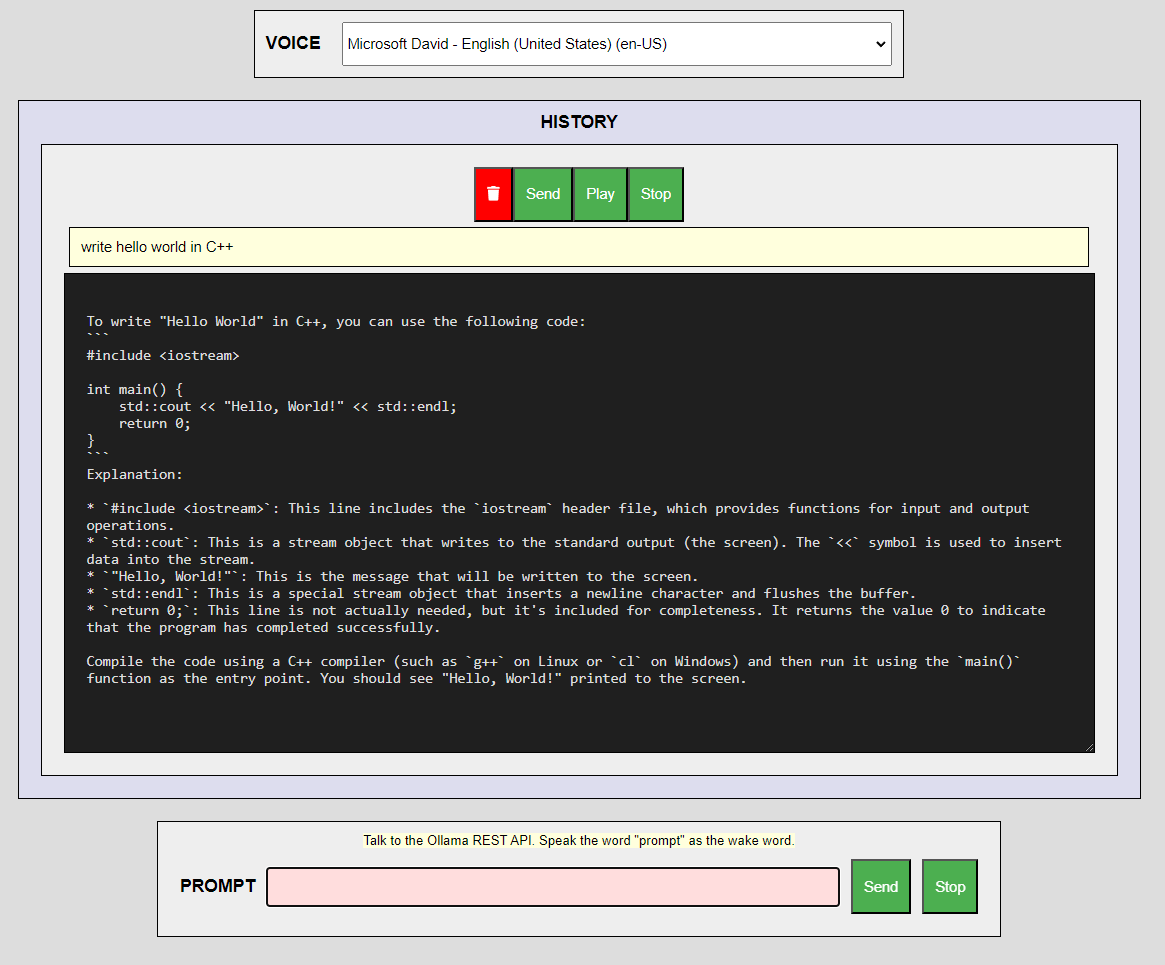
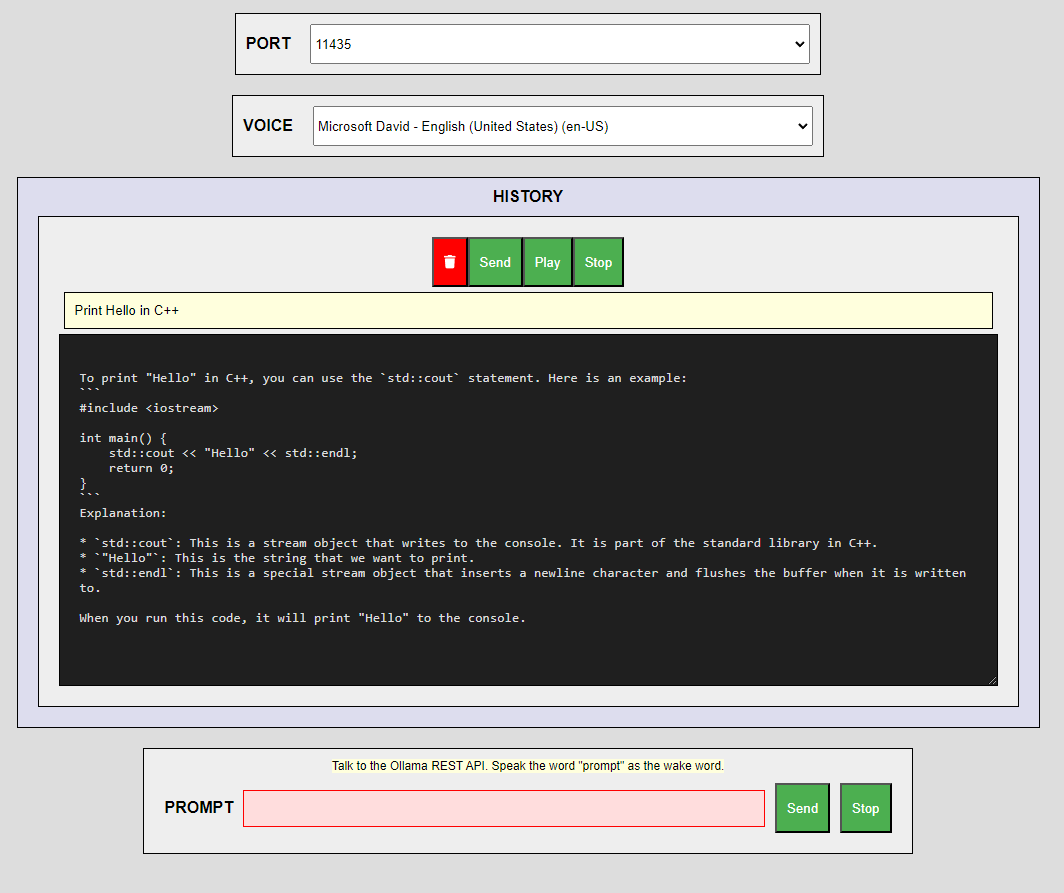
Optimized config

Changed region(s): [[0.031, 0.0, 0.9615, 0.9675], [0.5893, 0.4233, 0.6203, 0.4535]]

diff --git a/index.html b/index.html
@@ -53,8 +53,8 @@
         <div class="div-col center">
             <div class="div-col center">
                 <div class="div-row center" style="margin: 10px; background: #eee; padding: 10px; border: solid 1px black; gap: 20px">
-                    <div class="bold">PORT</div>
-                    <select id="portDropdown" style="min-height: 40px; min-width: 500px;">
+                    <div class="bold">OLLAMA REST API PORT</div>
+                    <select id="portDropdown" style="min-height: 40px; min-width: 250px;">
                         <option value="11434">11434</option>
                         <option selected value="11435">11435</option>
                     </select>

diff --git a/README.md b/README.md
@@ -82,17 +82,9 @@ server {
    }
    proxy_pass http://localhost:11434;
  }
- proxy_hide_header 'Access-Control-Allow-Origin';
- proxy_set_header 'Access-Control-Allow-Origin' "*";
- proxy_hide_header 'Content-Type';
- proxy_set_header 'Content-Type' "application/json";
  proxy_hide_header 'Origin';
  proxy_set_header 'Origin' "https://localhost:11434";
  add_header 'Access-Control-Allow-Origin' '*';
- proxy_hide_header 'Sec-Fetch-Mode';
- proxy_hide_header 'Sec-Fetch-Site';
- proxy_hide_header 'Sec-Fetch-Dest';
- proxy_hide_header 'Origin';
 }
 ```
 
